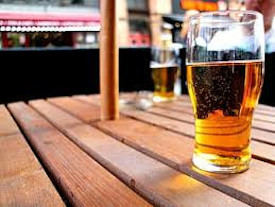
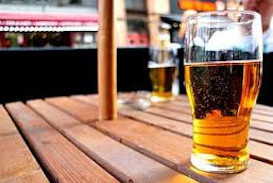
resizing beer pic,rotate FoodMenu

diff --git a/index.html b/index.html
@@ -16,24 +16,24 @@
   <section class="FoodMenu">
     <h2>Our Menu</h2>
 
-    <div class="FoodMenuPicWrap">
+    <div class="flex FoodMenuWrap">
 
-      <div class="FoodMenuPic">
-        <img class="FoodPic" src="img/tapas.jpg" alt="picture of bread, ham and tomato in wood box"/>
+      <div class=" flex FoodMenuBox">
+        <img class="FoodPic gg" src="img/tapas.jpg" alt="picture of bread, ham and tomato in wood box"/>
         <div class="FoodPicLegend">tapas</div>
       </div>
 
-      <div class="FoodMenuPic">
-        <img class="FoodPic" src="img/pizza.jpeg" alt="picture og a pizza in a wood table"/>
+      <div class="flex FoodMenuBox">
+        <img class="FoodPic" src="img/pizza.jpeg" alt="picture of a pizza in a wood table"/>
         <div class="FoodPicLegend">plats</div>
       </div>
 
-      <div class="FoodMenuPic">
+      <div class="flex FoodMenuBox">
         <img class="FoodPic" src="img/beer.jpeg" alt="picture of a glass of beer in a wood table"/>
         <div class="FoodPicLegend">beers</div>
       </div>
 
-      <div class="FoodMenuPic">
+      <div class="flex FoodMenuBox">
         <img class="FoodPic" src="img/wine.jpeg" alt="picture of three glasses of wine in a wood table"/>
         <div class="FoodPicLegend">wine</div>
       </div>

diff --git a/style.css b/style.css
@@ -22,6 +22,42 @@
 
 /* Elodie Menu + resa */
 
+.FoodMenuWrap{
+    align-items: center;
+    justify-content: center;
+    overflow: hidden;
+    position: :relative;
+}
+
+.FoodMenuBox {
+    flex-direction: column;
+    transform:rotate(-10deg);
+    flex-shrink: 2;
+    overflow: hidden;
+    
+}
+
+.FoodMenuPic:hover {
+    opacity: 0.7;
+    cursor:pointer;
+}
+
+.FoodPicLegend {
+    width: 80%;
+    text-align: end;
+}
+
+@media screen and (max-width: 1100px) {
+
+
+
+
+
+
+  }
+
+/* Formulaire */
+
 
 
 
